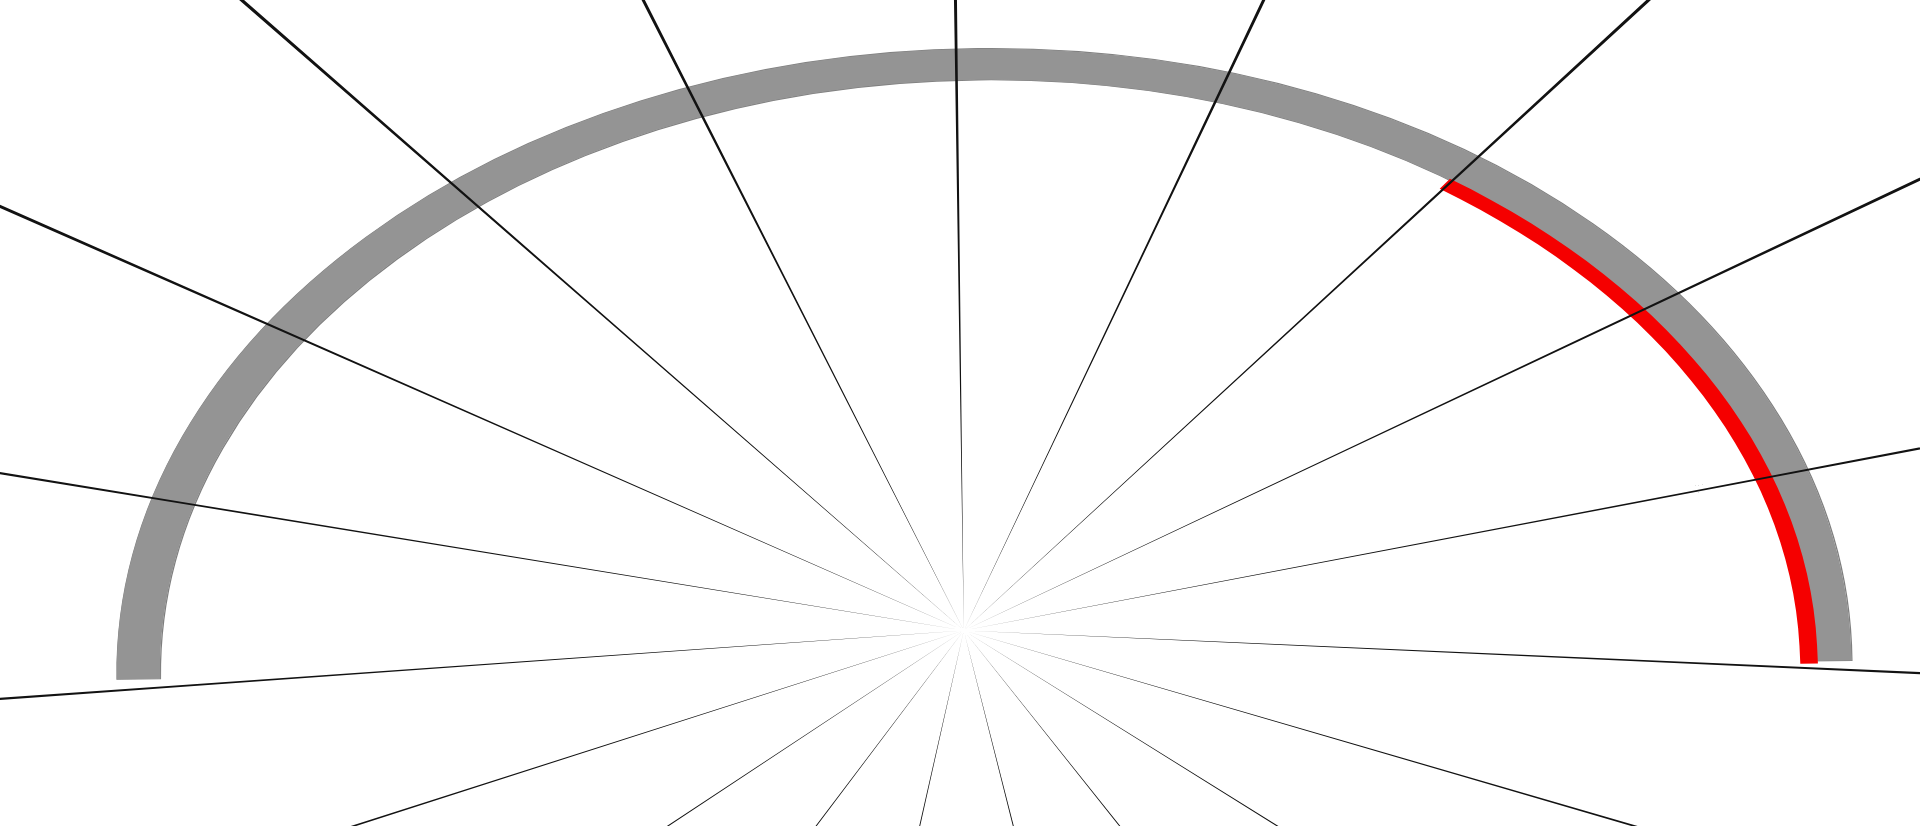
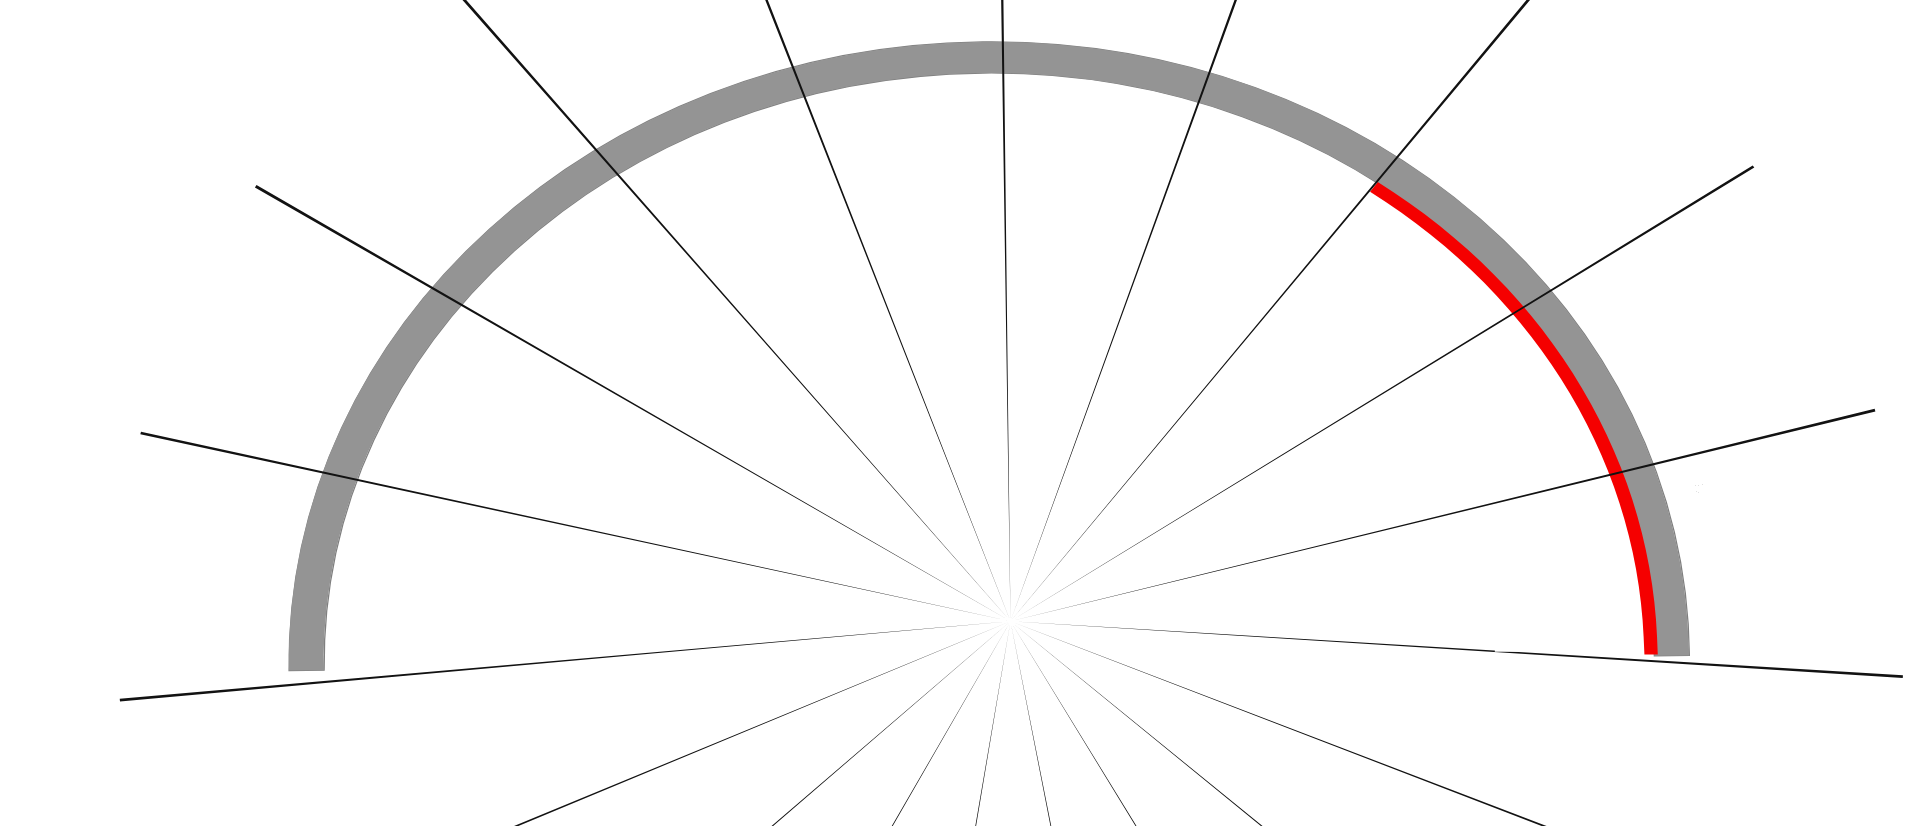
Website push5 zooming fix

diff --git a/Website/templates/index.html b/Website/templates/index.html
@@ -70,21 +70,33 @@
             display: flex;
             justify-content: center;
             margin: 20px 0;
+            position: relative;
         }
+
+        .meter-wrapper {
+            position: relative;
+            width: 460px; /* Match the width of the meter image */
+            height: 260px; /* Match the height of the meter image */
+        }
+
         #meterImage {
-            width: 460px;
-            height: 260px;
+            position: absolute;
+            width: 130%;
+            height: 130%;
+            left: -18%;
+            object-fit: contain; /* Ensures the image scales properly */
         }
+
         .needle {
             position: absolute;
-            top: 40%;
-            left: 50%;
-            transform-origin: 50% 100%;
-            transform: rotate(0deg);
+            top: 95%; /* Position at the vertical center of the meter */
+            left: 50%; /* Position at the horizontal center of the meter */
+            transform-origin: 50% 100%; /* Rotate from the base of the needle */
+            transform: translate(-50%, -100%) rotate(0deg); /* Center the needle and set initial rotation */
             width: 4px;
             height: 150px;
             background-color: red;
-            transition: transform 0.5s ease-out;
+            transition: transform 0.5s ease-out; /* Smooth rotation animation */
             border-radius: 2px;
         }
 
@@ -125,6 +137,7 @@
             height: 2px;
             background-color: white;
             transition: all 0.3s ease;
+            transform-origin: left; /* Ensure scaling starts from the left */
         }
 
         .input-container {
@@ -133,14 +146,25 @@
             gap: 20px;
             margin-top: 20px;
             padding: 20px;
+            width: 100%; /* Ensure the container takes full width */
+        }
+
+        .input-box {
+            flex: 70%; /* 70% width for the text box */
+        }
+
+        .attachment-box {
+            flex: 30%; /* 30% width for the dropzone */
         }
 
         .input-box input[type="text"],
         .input-box textarea {
-            width: 700px;
+            width: 100%; /* Take full width of the parent */
+            height: 210px; /* Fixed height or adjust as needed */
             background-color: #2c2c2c;
             color: white;
             border: 1px solid;
+            resize: vertical; /* Allow vertical resizing */
         }
         .input-box textarea::placeholder {
             color: white;
@@ -152,7 +176,8 @@
 
 
         .dropzone {
-            width: 100%;
+            width: 100%; /* Take full width of the parent */
+            height: 210px; /* Match the height of the textarea */
             border: 2px dashed #bbb;
             background: #222;
             padding: 20px;
@@ -246,8 +271,10 @@
     </div>
 
     <div class="meter-container">
-        <img id="meterImage" src="{{ url_for('static', filename='meter.png') }}" alt="Meter">
-        <div id="needle" class="needle"></div>
+        <div class="meter-wrapper">
+            <img id="meterImage" src="{{ url_for('static', filename='meter.png') }}" alt="Meter">
+            <div id="needle" class="needle"></div>
+        </div>
     </div>
 
     <!-- Mode Selection Section -->
@@ -354,43 +381,60 @@
 
         function animateNeedle(value) {
             var angle = -(90 - (value / 100) * 180);
-            document.getElementById("needle").style.transform = "rotate(" + angle + "deg)";
+            const needle = document.getElementById("needle");
+
+            // Apply only the rotation part of the transform
+            needle.style.transform = `translate(-50%, -100%) rotate(${angle}deg)`;
         }
 
-        document.addEventListener("DOMContentLoaded", function() {
+        document.addEventListener("DOMContentLoaded", function () {
             const modeOptions = document.querySelectorAll('.mode-option');
             const underline = document.querySelector('.underline');
 
             function updateUnderline(selectedOption) {
                 const rect = selectedOption.getBoundingClientRect();
                 const containerRect = selectedOption.parentElement.getBoundingClientRect();
-                underline.style.width = `${rect.width}px`;
-                underline.style.left = `${rect.left - containerRect.left}px`;
 
+                // Calculate the relative position of the selected option
+                const leftOffset = rect.left - containerRect.left;
+
+                // Set the underline's width and position
+                underline.style.width = `${rect.width}px`;
+                underline.style.transform = `translateX(${leftOffset}px)`;
+
+                // Update text styles for selected and unselected options
                 modeOptions.forEach(option => {
                     const label = option.querySelector('label');
                     if (option === selectedOption) {
-                        label.style.color = 'white'; // Selected option: white text
-                        label.style.fontWeight = 'bold'; // Selected option: bold text
+                        label.style.color = 'white';
+                        label.style.fontWeight = 'bold';
                     } else {
-                        label.style.color = '#bbb'; // Unselected options: gray text
-                        label.style.fontWeight = 'normal'; // Unselected options: normal text
+                        label.style.color = '#bbb';
+                        label.style.fontWeight = 'normal';
                     }
                 });
             }
 
+            // Initialize underline position for the default selected option
+            const defaultSelected = document.querySelector('.mode-option input[type="radio"]:checked').parentElement;
+            updateUnderline(defaultSelected);
+
+            // Update underline position when a mode is selected
             modeOptions.forEach(option => {
-                option.addEventListener('click', function() {
+                option.addEventListener('click', function () {
                     const radio = this.querySelector('input[type="radio"]');
                     radio.checked = true;
                     updateUnderline(this);
                 });
             });
 
-            // Initialize underline position for the default selected option
-            const defaultSelected = document.querySelector('.mode-option input[type="radio"]:checked').parentElement;
-            updateUnderline(defaultSelected);
+            // Recalculate underline position on window resize or zoom
+            window.addEventListener('resize', () => {
+                const selectedOption = document.querySelector('.mode-option input[type="radio"]:checked').parentElement;
+                updateUnderline(selectedOption);
+            });
         });
+
     </script>
 
 </body>
